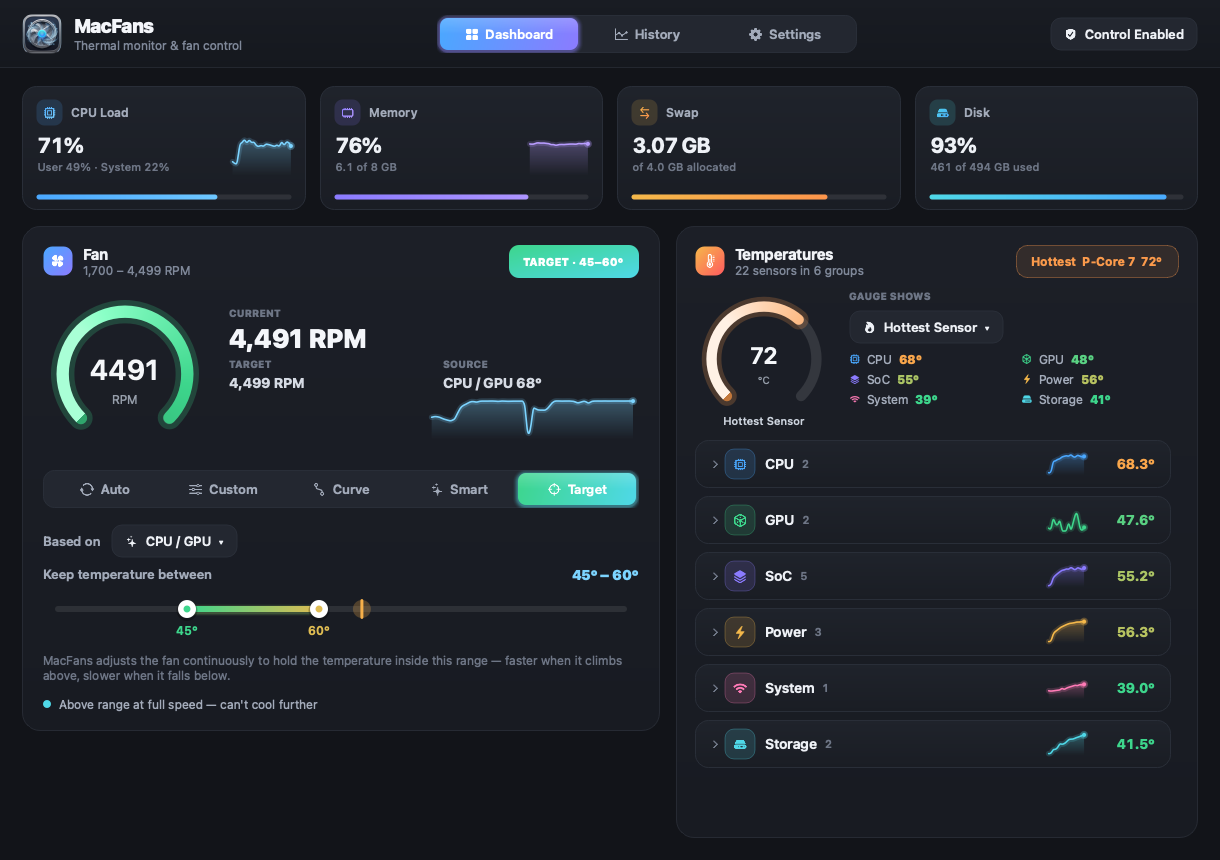
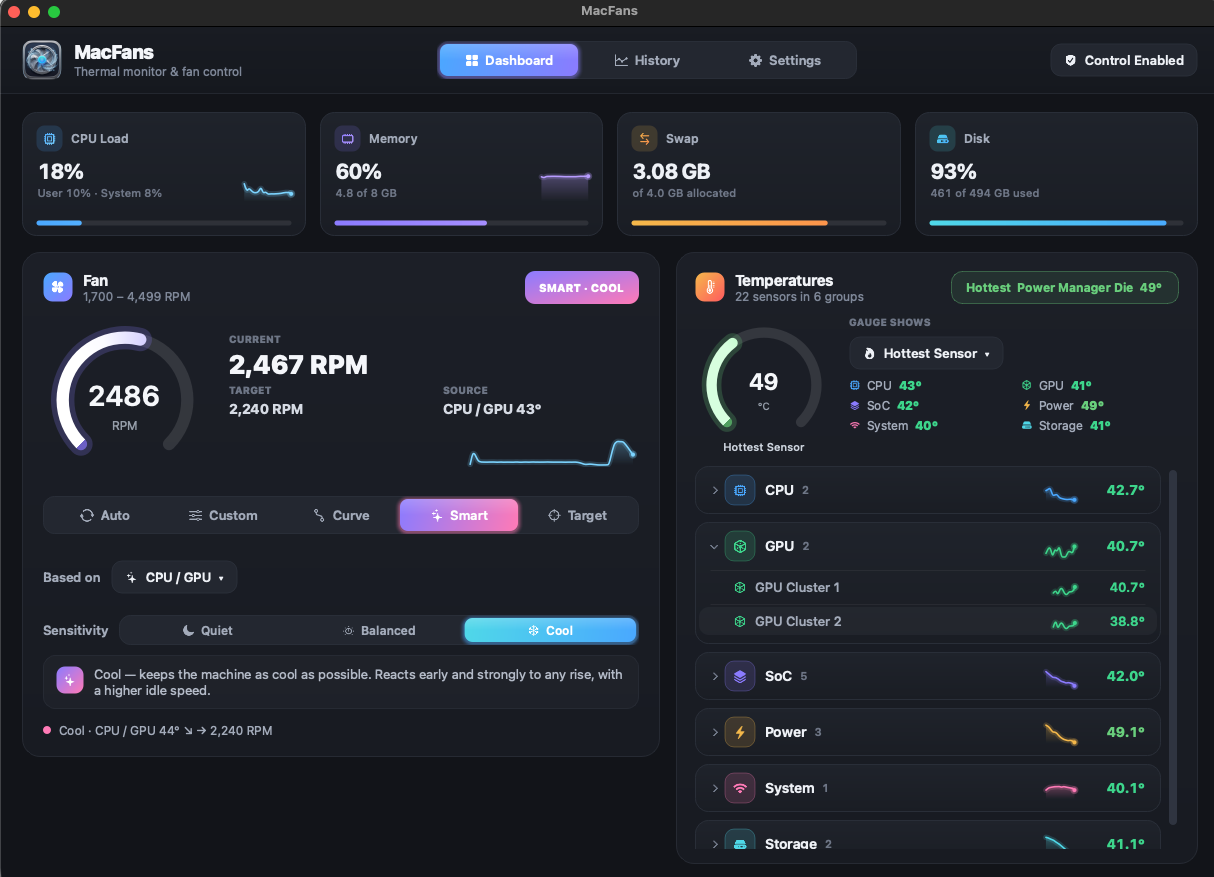
docs: add real-usage screenshots (dashboard, curve, history, settings)

diff --git a/README.md b/README.md
@@ -6,13 +6,17 @@ SMC and HID thermal sensors directly, and drives your fans with five control
 modes — from a simple fixed speed to an adaptive controller that holds a
 temperature range for you.
 
-![Dashboard](docs/dashboard.png)
+![Dashboard — Smart mode with the GPU group expanded](docs/dashboard.png)
 
-<p align="center">
-  <img src="docs/menubar.png" width="360" alt="Menu bar popup">
-</p>
+## Screenshots
 
-![History](docs/history.png)
+| Graphical fan curve | Menu-bar popup |
+|---|---|
+| ![Curve mode](docs/dashboard-curve.png) | <img src="docs/menubar.png" width="320" alt="Menu bar popup"> |
+
+![History — temperatures, fan speed, CPU load, memory & swap](docs/history.png)
+
+![Settings](docs/settings.png)
 
 ## Features
 
